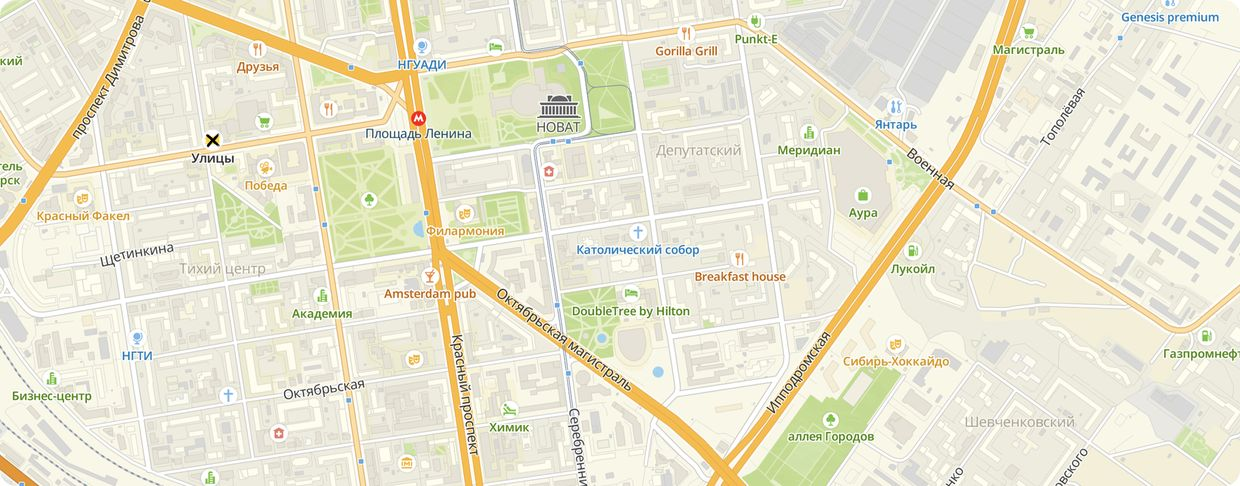
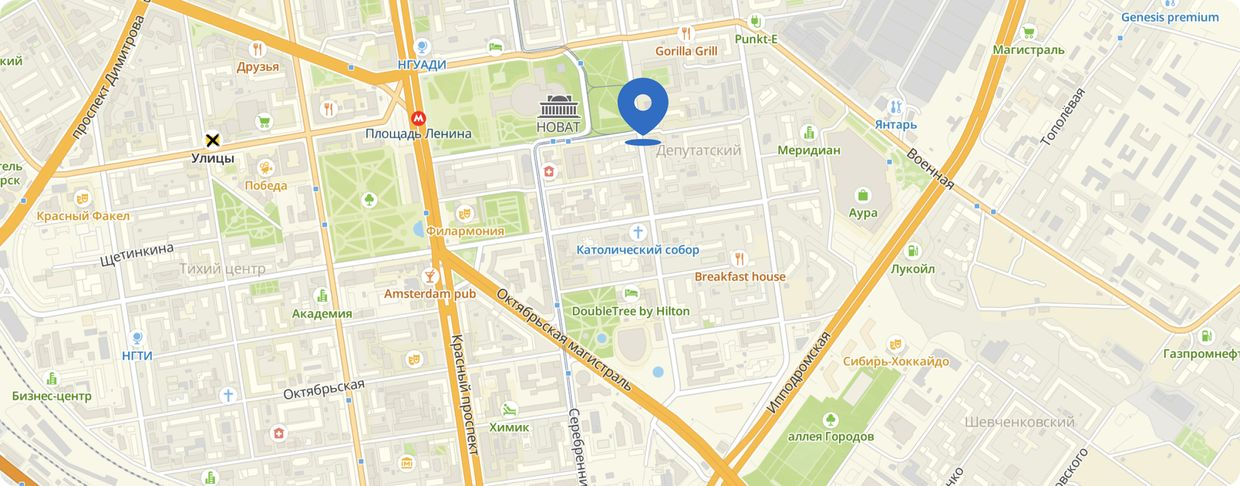
Коррекция карты в контактах, добавление маски тел в формах

Changed region(s): [[0.4903, 0.1543, 0.5516, 0.3086]]

diff --git a/source/index.html b/source/index.html
@@ -1729,7 +1729,7 @@
             </div>
             <div class="contact-us-form__input-wrapper contact-us-form__input-wrapper--phone">
               <label class="contact-us-form__label" for="contact-us-form-phone">Телефон</label>
-              <input class="contact-us-form__input" type="tel" name="contact-us-form-phone" id="contact-us-form-phone" minlength="12" maxlength="12" required>
+              <input class="contact-us-form__input" type="tel" name="contact-us-form-phone" id="contact-us-form-phone" value="+7" minlength="12" maxlength="12" required>
             </div>
             <div class="contact-us-form__input-wrapper contact-us-form__input-wrapper--message">
               <label class="contact-us-form__label" for="contact-us-form-message">Ваше сообщение</label>
@@ -1847,7 +1847,7 @@
         </div>
         <div class="form__wrapper form__wrapper--phone">
           <label class="form__label" for="phone">Телефон</label>
-          <input class="form__input" type="tel" name="phone" id="phone" minlength="12" maxlength="12" required>
+          <input class="form__input" type="tel" name="phone" id="phone" value="+7" minlength="12" maxlength="12" required>
         </div>
         <div class="form__wrapper form__wrapper--city">
           <label class="form__label" for="city">Выберите город</label>

diff --git a/source/sass/blocks/contacts.scss b/source/sass/blocks/contacts.scss
@@ -154,43 +154,12 @@
     opacity: 0.2;
   }
 
-  &::after {
-    @include pseudo(18px, 25px);
-
-    top: 45px;
-    left: 143px;
-    z-index: 2;
-    mask-image: url("/__spritemap#sprite-contacts-map-pin-view");
-    mask-repeat: no-repeat;
-    mask-position: center;
-    mask-size: 100%;
-    background-color: $primary-button-bg-color;
-  }
-
-  @media (min-width: $tablet-width) {
-    &::after {
-      top: 106px;
-      left: 344px;
-
-      width: 30px;
-      height: 44px;
-    }
-  }
-
   @media (min-width: $desktop-width) {
     grid-column: 1 / 4;
     grid-row: 2 / 3;
 
     &::before {
       top: -42px;
-    }
-
-    &::after {
-      top: 74px;
-      left: 617px;
-
-      width: 52px;
-      height: 74px;
     }
   }
 }

diff --git a/source/sass/blocks/grant.scss b/source/sass/blocks/grant.scss
@@ -91,7 +91,7 @@
 
 .grant__img-wrapper img {
   display: block;
-  object-fit: cover;
+  object-fit: contain;
   box-sizing: border-box;
   border-radius: 16px;
   background-color: $primary-bg-color;

diff --git a/source/js/swiper-hero.js b/source/js/swiper-hero.js
@@ -36,6 +36,7 @@ const heroSwiper = new Swiper ('.hero__wrapper', {
     1440: {
       slidesPerView: 1,
       spaceBetween: 0,
+      allowTouchMove: false,
     },
   },
 });

diff --git a/source/js/modal-form.js b/source/js/modal-form.js
@@ -130,3 +130,4 @@ customCitySelectInput.addEventListener('click', () => {
     customSelectErrorRemover();
   }
 });
+
